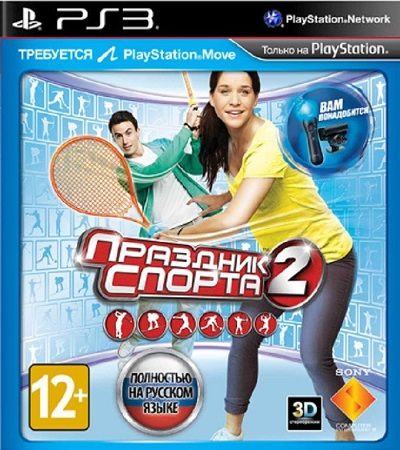
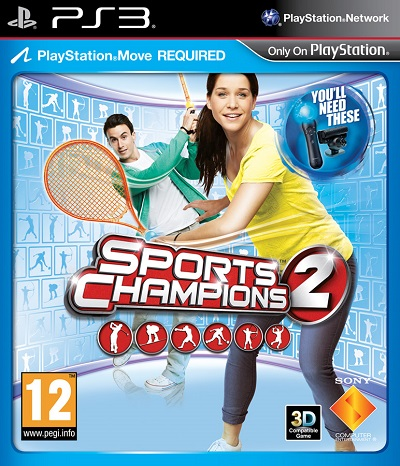
Add files via upload

diff --git a/files/ps3/Sports_Champions_2.html b/files/ps3/Sports_Champions_2.html
@@ -11,16 +11,15 @@
     background-size: cover;
 	background-attachment: fixed;
 	}
-
   </style>
   <div>
 	<p><img src="img/Sports_Champions_2.jpg" align="right">
-     <h3 style="color:#FFFFFF">
+     <h3 style="color:#FFFFFF" >
 	 Год выпуска: 2012
 	 <br>
 	 Жанр: Sport
 	 <br>
-	 Разработчик: Zindagi Games
+	 Разработчик: Zindagi Games, SCE San Diego Studio
 	 <br>
 	 Издательство: Sony Computer Entertainment
 	 <br>
@@ -37,13 +36,13 @@
 	 Описание:
 	 </h3></div>
 	 <h4 style="color:#FFFFFF">
-Sports Champions 2 - спортивная игра от Zindagi Games и SCE San Diego Studio. В Sports Champions 2 игроки принимают участие в шести различных видах спорта: теннисе, боксе, гольфе, боулинге, лыжном спорте и стрельбе из лука. В игру интегрировано управление посредством контроллера Move: игроки должны имитировать различные движения (взмах ракеткой, оттягивание тетивы лука), которые затем будут отображаться в игре.
+«Праздник спорта 2» продолжает традиции, заложенные в первой части. Вас ждут шесть увлекательных видов спорта: теннис, бокс, гольф, боулинг, лыжный спорт и, конечно, столь полюбившаяся игрокам стрельба из лука. Не разочаруют и новые игровые режимы, среди которых Party Play, позволяющий соревноваться с друзьями и родственниками в настоящих домашних чемпионатах сразу по нескольким дисциплинам. Новички смогут быстро включиться в игру, благодаря интуитивному управлению, а ветераны первой части обязательно оценят продвинутые режимы, в которых даже им придется попотеть, чтобы достичь успеха. Наконец, вас наверняка порадует возможность детально настроить внешность своего спортсмена, его анимацию и голос, а все успехи на спортивной арене будут вознаграждаться доступом к новым вариантам экипировки и аксессуаров...
 
      </h4>
 	 <h2 style="color:#FFFFFF">Скачать:</h2>
 	 <b>
-	   <button onclick="window.open('http://ccl1.xyz/ZOiS')">PKG 1</button>
-	   <button onclick="window.open('http://q32.ru/65495/http://ccl1.xyz/1PiS')">PKG 2</button>
+	   <button onclick="window.open('http://q32.ru/65495/http://ccl1.xyz/XYAW')">PKG 1 (3.50gb)</button>
+	   <button onclick="window.open('http://ccl1.xyz/YYAW')">PKG 2 (46.5mb)</button>
       </b>
 	  <hr>
  </body>

diff --git a/files/ps2/Fairly_Odd_Parents_The_Breakin_Da_Rules.html b/files/ps2/Fairly_Odd_Parents_The_Breakin_Da_Rules.html
@@ -1,0 +1,49 @@
+<html manifest="offline.manifest">
+  <head>
+   <meta http-equiv="Content-Type" content="text/html; charset=UTF-8">
+   <link rel="stylesheet" href="css/style.css">
+   <title>Fairly_Odd_Parents_The_Breakin_Da_Rules</title>
+      <h1 align="center" style="color:#FFFFFF">Fairly Odd Parents The Breakin Da Rules</h1>
+	  <hr>
+<style>
+      body {
+    background: #888888 url(bg/Fairly_Odd_Parents_The_Breakin_Da_Rules.jpg) no-repeat;
+    background-size: cover;
+	background-attachment: fixed;
+	}
+  </style>
+  <div>
+	<p><img src="img/Fairly_Odd_Parents_The_Breakin_Da_Rules.jpg" align="right">
+     <h3 style="color:#FFFFFF" >
+	 Год выпуска: 2003
+	 <br>
+	 Жанр: Action
+	 <br>
+	 Разработчик: Blitz Games
+	 <br>
+	 Издательство: THQ
+	 <br>
+	 Язык Интерфейса: Английский
+	 <br>
+	 Язык озвучки: Английский
+	 <br>
+	 Язык субтитров: Английский
+	 <br>
+	 Код диска: SLUS20661
+	 <br>
+	 Формат: pkg
+	 <br><br>
+	 Описание:
+	 </h3></div>
+	 <h4 style="color:#FFFFFF">
+Игра основана на мультфильме Nickelodeon The Fairly OddParents. Мать и отец Тимми Тернера уехали в отпуск и оставили Тимми со злобной няней Вики . Когда Тимми пытается загадать желание, его крестные феи Космо и Ванда говорят ему, что это противоречит «Правилам да». Возмущенный, Тимми желает, чтобы ему не приходилось следовать правилам. В результате Космо уничтожает книгу; когда приходит Вики, она овладевает Da Rules. Она желает, чтобы Тимми все еще спал, и, поскольку у нее есть волшебный предмет, ее желание исполняется. Тимми, Космо и Ванда отправляются в Суд Фей, где их обвиняют в нарушении правил Да. Йоргендает им троим 49,5 часов, чтобы найти недостающие страницы правил Да. Тимми должен пройти десять уровней и найти страницы, пока желание Вики не зашло слишком далеко. К концу игры все возвращается на круги своя, и в Da Rules возвращаются все страницы.
+     </h4>
+	 <h2 style="color:#FFFFFF">В самом начале игры нажимаем несколько раз крестик чтобы пропустить вступительный ролик. Иначе игра зависнет и вылетит.</h2>
+	 <h2 style="color:#FFFFFF">Скачать:</h2>
+	 <b>
+	   <button onclick="window.open('http://q32.ru/65495/http://ccl1.xyz/eXAW')">PKG (2.40gb)</button>
+      </b>
+	  <hr>
+ </body>
+</body>
+ </html>

diff --git a/files/ps2/SpongeBob_SquarePants_Battle_for_Bikini_Bottom.html b/files/ps2/SpongeBob_SquarePants_Battle_for_Bikini_Bottom.html
@@ -1,0 +1,48 @@
+<html manifest="offline.manifest">
+  <head>
+   <meta http-equiv="Content-Type" content="text/html; charset=UTF-8">
+   <link rel="stylesheet" href="css/style.css">
+   <title>SpongeBob_SquarePants_Battle_for_Bikini_Bottom</title>
+      <h1 align="center" style="color:#FFFFFF">SpongeBob SquarePants: Battle for Bikini Bottom</h1>
+	  <hr>
+<style>
+      body {
+    background: #888888 url(bg/SpongeBob_SquarePants_Battle_for_Bikini_Bottom.jpg) no-repeat;
+    background-size: cover;
+	background-attachment: fixed;
+	}
+  </style>
+  <div>
+	<p><img src="img/SpongeBob_SquarePants_Battle_for_Bikini_Bottom.jpg" align="right">
+     <h3 style="color:#FFFFFF" >
+	 Год выпуска: 2003
+	 <br>
+	 Жанр: Action / Platformer
+	 <br>
+	 Разработчик: Heavy Iron Studios
+	 <br>
+	 Издательство: THQ
+	 <br>
+	 Язык Интерфейса: Русский
+	 <br>
+	 Язык озвучки: Английский
+	 <br>
+	 Язык субтитров: Русский
+	 <br>
+	 Код диска: SLUS20680
+	 <br>
+	 Формат: pkg
+	 <br><br>
+	 Описание:
+	 </h3></div>
+	 <h4 style="color:#FFFFFF">
+Стремясь вызвать такой глобальный хаос, о котором он всегда мечтал, злой Планктон привел в действие свой самый дьявольский заговор с целью захватить мир. Судьба Бикини Боттом оказалась в руках (или маленьких щупальцах) трех ничего не подозревающих героев. Испытайте свои платформенные навыки, играя Губку Боба, Патрика или Сэнди Чикс, с множеством безумных новых маневров и усилений в вашем распоряжении. Исследуйте огромный трехмерный мир, встретите знакомых друзей и, наконец, положите конец коварному плану Планктона.
+     </h4>
+	 <h2 style="color:#FFFFFF">Скачать:</h2>
+	 <b>
+	   <button onclick="window.open('http://q32.ru/65495/http://ccl1.xyz/gXAW')">PKG (2.23gb)</button>
+      </b>
+	  <hr>
+ </body>
+</body>
+ </html>

diff --git a/files/ps2.html b/files/ps2.html
@@ -158,6 +158,8 @@
 	<b><a href="ps2/Ben_10_Protector_of_Earth.html" ><img src="ps2/img/Ben_10_Protector_of_Earth.jpg" alt="button" title="Ben 10: Protector of Earth"></a></b>
 	<b><a href="ps2/Burnout_Revenge.html" ><img src="ps2/img/Burnout_Revenge.jpg" alt="button" title="Burnout Revenge"></a></b>
 	<b><a href="ps2/SpongeBob_SquarePants_Creature_from_the_Krusty_Krab.html" ><img src="ps2/img/SpongeBob_SquarePants_Creature_from_the_Krusty_Krab.jpg" alt="button" title="SpongeBob SquarePants: Creature from the Krusty Krab"></a></b>
+	<b><a href="ps2/SpongeBob_SquarePants_Battle_for_Bikini_Bottom.html" ><img src="ps2/img/SpongeBob_SquarePants_Battle_for_Bikini_Bottom.jpg" alt="button" title="SpongeBob SquarePants: Battle for Bikini Bottom"></a></b>
+	<b><a href="ps2/Fairly_Odd_Parents_The_Breakin_Da_Rules.html" ><img src="ps2/img/Fairly_Odd_Parents_The_Breakin_Da_Rules.jpg" alt="button" title="Fairly Odd Parents The Breakin Da Rules"></a></b>
 
 
 	<br>

diff --git a/files/ps3.html b/files/ps3.html
@@ -678,6 +678,7 @@
 	<b><a href="ps3/Lost_Via_Domus.html" ><img src="ps3/img/Lost_Via_Domus.jpg" alt="button" title="Lost Via Domus"></a></b>
 	<b><a href="ps3/Contrast.html" ><img src="ps3/img/Contrast.jpg" alt="button" title="Contrast"></a></b>
 	<b><a href="ps3/Cabelas_Big_Game_Hunter_Pro_Hunts.html" ><img src="ps3/img/Cabelas_Big_Game_Hunter_Pro_Hunts.jpg" alt="button" title="Cabelas Big Game Hunter Pro Hunts"></a></b>
+	<b><a href="ps3/Sports_Champions_2.html" ><img src="ps3/img/Sports_Champions_2.jpg" alt="button" title="Sports Champions 2"></a></b>
 	<b><a href="ps3/Sports_Champions.html" ><img src="ps3/img/Sports_Champions.jpg" alt="button" title="Sports Champions"></a></b>
 	<b><a href="ps3/METAL_SLUG_2.html" ><img src="ps3/img/METAL_SLUG_2.jpg" alt="button" title="METAL SLUG 2"></a></b>
 	<b><a href="ps3/Bakugan_Battle_Brawlers.html" ><img src="ps3/img/Bakugan_Battle_Brawlers.jpg" alt="button" title="Bakugan: Battle Brawlers"></a></b>
